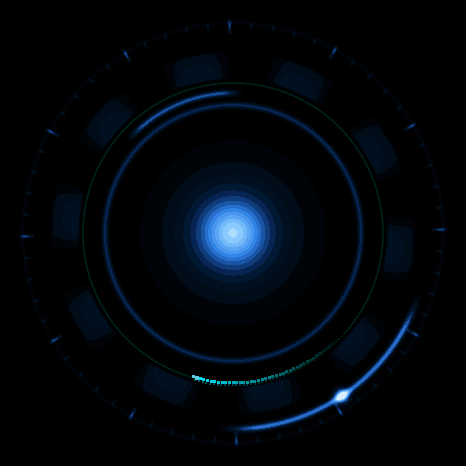
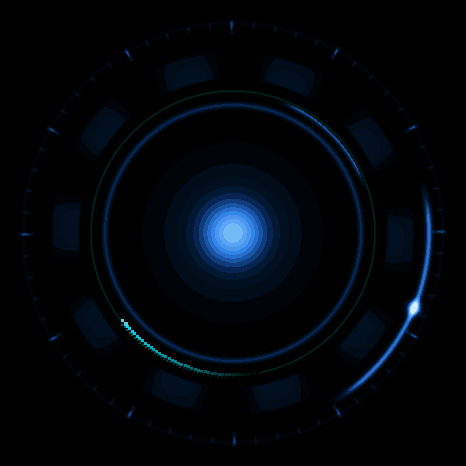
fix: stop drawing a second HUD on top of the baked art
User spotted it: "2 layers of design playing at same time... overlapping?" —
correct, and a real design error.

The baked rwave_*.eaf faces are not blank backdrops. Each is already a complete
arc-reactor HUD: core, radial spokes, inner ring, outer ring, segment blocks,
bezel ticks. The overlay was drawing its own ring at r=150 and its own 48 radial
spokes at r=70-128 directly on top of the art's ring and spokes — two HUDs in
the same visual language, slightly different geometry, beating against each
other.

It was also duplicating solved work. The clips are named rwave_* for REACTIVE
WAVE, and the display diag exposes applied_bucket tracking audio level: the
baked faces ARE the amplitude-reactive waveform. FACE-01 was already satisfied.
ov_waveform added nothing but noise, and is deleted (with ov_spoke, its only
caller — recoverable from history).

Measured the art's negative space instead, 6 frames averaged across animation
phases with the HUD toggled off, luminance profiled by radius. Three bands are
genuinely free (mean AND peak zero):

  r135-149  -> thinking comet   (was 150, against the baked ring)
  r185-194  -> breathing ring, and the listen countdown later
  r215-239  -> battery rim      (was 212, sitting on the bezel ticks)

Occupied and now avoided: core r0-94, inner ring r125-134, outer ring and
segments r155-179, bezel ticks r200-214.

Verified on hardware: thinking comet now puts 90 px in the free band and ZERO
[…]

diff --git a/components/jr_display/src/hud_render.c b/components/jr_display/src/hud_render.c
@@ -538,6 +538,29 @@ static void overlay_palette(bool swap)
     s_ov_ready = true;
 }
 
+/* ---- RADII: the overlay lives in the baked art's NEGATIVE SPACE ----------
+ *
+ * The baked rwave_*.eaf faces are not blank backdrops — each is already a
+ * complete arc-reactor HUD with its own core, spokes, rings and bezel ticks.
+ * Drawing a second ring or a second set of spokes on top produces two HUDs
+ * beating against each other, which is exactly what the first version did.
+ *
+ * Measured on hardware (6 frames averaged across animation phases, baked art
+ * only, via the /api/display/hud toggle) the art leaves precisely three bands
+ * free — mean AND peak luminance both zero:
+ *
+ *     r135-149   (15 px)   -> the thinking comet
+ *     r185-194   (10 px)   -> breathing ring / listen countdown
+ *     r215-239   (25 px)   -> battery rim, and the choice arcs later
+ *                             (which the prototype wanted hugging the bezel)
+ *
+ * Everything else is occupied: core r0-94, inner ring r125-134, outer ring and
+ * segments r155-179, bezel ticks r200-214. Put nothing there.
+ * Re-measure if the baked art is ever changed. */
+#define OV_R_COMET   142   /* centre of the free r135-149 band */
+#define OV_R_BREATH  190   /* centre of the free r185-194 band */
+#define OV_R_BATT    227   /* centre of the free r215-239 band */
+
 /* One revolution every ~2639 ms == the prototype's `angle = now/420` rad
  * (2*pi*420 ms per turn), expressed in the Q8 turn units the LUT uses. */
 #define OV_SPIN_PERIOD_MS  2639
@@ -561,7 +584,7 @@ void hud_overlay_thinking(uint16_t *dst, int y0, int nrows, uint32_t now_ms,
             continue;
         }
         band_row(dst + (size_t)(y - s.y0) * HUD_W, y,
-                 R_RING - 1, R_RING + 1, s_ov_cyan, 40);
+                 OV_R_COMET - 1, OV_R_COMET + 1, s_ov_cyan, 40);
     }
 
     const int head = (int)(((uint64_t)now_ms * 256u) / OV_SPIN_PERIOD_MS) & 255;
@@ -574,14 +597,14 @@ void hud_overlay_thinking(uint16_t *dst, int y0, int nrows, uint32_t now_ms,
         const uint16_t cool = shade(s_ov_cyan, (lv * 2) / 5);
         const int a = (head - d) & 255;
         /* 3-wide closes the ~3.7 px angular gap between adjacent Q8 steps. */
-        polar_dot(&s, a, R_RING, hot, 3);
-        polar_dot(&s, a, R_RING + 3, cool, 2);
+        polar_dot(&s, a, OV_R_COMET, hot, 3);
+        polar_dot(&s, a, OV_R_COMET + 3, cool, 2);
     }
 
     /* White-hot head. */
     const uint16_t blaze = shade(s_ov_tick, 255);
-    polar_dot(&s, head, R_RING, blaze, 4);
-    polar_dot(&s, (head + 1) & 255, R_RING, blaze, 3);
+    polar_dot(&s, head, OV_R_COMET, blaze, 4);
+    polar_dot(&s, (head + 1) & 255, OV_R_COMET, blaze, 3);
 }
 
 /* ---- offset-aware primitives -------------------------------------------
@@ -615,30 +638,9 @@ static inline void ov_polar(const strip_t *s, int cx, int cy, int a, int r,
     ov_dot(s, cx + ((lcos(a) * r) >> 15), y, px, n);
 }
 
-/* Radial spoke from r0 to r1 at angle a — the waveform bar primitive.
- *
- * CRITICAL: this is called once per DMA strip, 39 times per frame. Drawing the
- * whole spoke every time and letting ov_dot clip discards ~97% of the work and
- * measurably costs frame rate (24 -> 14 fps when this culling was absent).
- * y(r) is monotonic in r for a fixed angle, so the endpoints bound the span:
- * reject the spoke outright unless that span meets the strip. */
-static void ov_spoke(const strip_t *s, int cx, int cy, int a, int r0, int r1,
-                     uint16_t px, bool wide)
-{
-    if (r1 < r0) {
-        return;
-    }
-    const int sa = lsin(a);
-    int ya = cy + ((sa * r0) >> 15);
-    int yb = cy + ((sa * r1) >> 15);
-    if (ya > yb) { const int tmp = ya; ya = yb; yb = tmp; }
-    if (yb + 2 < s->y0 || ya >= s->y1) {
-        return;                                  /* cannot touch this strip */
-    }
-    for (int r = r0; r <= r1; ++r) {
-        ov_polar(s, cx, cy, a, r, px, wide ? 2 : 1);
-    }
-}
+/* NOTE: ov_spoke (radial bar primitive) lived here and was removed with the
+ * waveform — the baked art already draws spokes, so nothing needed it. Recover
+ * it from git history if a radial element is ever wanted in free space. */
 
 /* One row of an annulus about (cx,cy), filled analytically: solve the two x
  * spans rather than testing every pixel, so cost is the band width and not the
@@ -689,8 +691,6 @@ void hud_tilt_offset(float roll_deg, float pitch_deg, int8_t *ox, int8_t *oy)
  * o'clock, proportional to charge. Red under 20%, gold while charging, cyan
  * otherwise. Skipped entirely when no cell is present (batt_pct == 0xFF), so a
  * USB-powered puck shows no misleading gauge. */
-#define OV_R_BATT 212
-
 static void ov_battery(const strip_t *s, int cx, int cy, const hud_env_t *env)
 {
     if (env->batt_pct > 100) {
@@ -705,28 +705,18 @@ static void ov_battery(const strip_t *s, int cx, int cy, const hud_env_t *env)
     }
 }
 
-/* Reactive waveform: HUD_BARS spokes around the ring, length driven by
- * amplitude, shaped so the crown is tallest and the skirt shortest, with a
- * slow travelling ripple so it never looks like a static equaliser. */
-static void ov_waveform(const strip_t *s, int cx, int cy, uint32_t now_ms,
-                        const hud_env_t *env, const uint16_t *ramp, int base_lv)
-{
-    const int amp = env->amp;
-    for (int i = 0; i < HUD_BARS; ++i) {
-        const int a = (i * 256) / HUD_BARS;
-        /* envelope: full at the crown, tapering to the skirt */
-        const int env_q8 = 128 + ((lsin((i * 128) / HUD_BARS) * 127) >> 15);
-        /* travelling ripple keeps it alive even at constant amplitude */
-        const int rip = 180 + ((lsin((int)((now_ms >> 4) + i * 5) & 255) * 75) >> 15);
-        int len = 4 + (((amp * env_q8) >> 8) * rip) / 255 * 56 / 255;
-        if (len > 58) {
-            len = 58;
-        }
-        const int lv = base_lv + ((amp * (255 - base_lv)) >> 8);
-        ov_spoke(s, cx, cy, a, R_BAR_BASE, R_BAR_BASE + len,
-                 shade(ramp, lv), len > 24);
-    }
-}
+/* NOTE: there is deliberately NO waveform here.
+ *
+ * The first version drew 48 amplitude-driven spokes at r=70-128 — directly on
+ * top of the baked face's own radial spokes. The baked clips are named
+ * rwave_* for "reactive wave": they ALREADY are the amplitude-reactive
+ * waveform (the display diag exposes applied_bucket tracking audio level).
+ * Adding a second set was pure duplication and read as two competing HUDs.
+ *
+ * FACE-01 is therefore satisfied by the baked art, not by this layer. If the
+ * baked clips are ever retired (decision D4), hud_render_rows() already
+ * contains a full procedural face — use that, rather than reinstating an
+ * overlay waveform on top of a face that has one. */
 
 void hud_overlay_frame(uint16_t *dst, int y0, int nrows, uint32_t now_ms,
                        bool swap_bytes, const hud_env_t *env)
@@ -744,21 +734,21 @@ void hud_overlay_frame(uint16_t *dst, int y0, int nrows, uint32_t now_ms,
 
     switch ((hud_face_t)env->face) {
     case HUD_FACE_IDLE: {
-        /* Breathing ring — a slow sine on brightness. Present, not busy. */
+        /* Breathing ring in the free r185-194 band — a slow sine on
+         * brightness. Present, not busy, and clear of the baked rings. */
         const int lv = 26 + ((lsin((int)(now_ms / 24) & 255) * 22) >> 15) + 22;
         for (int y = s.y0; y < s.y1; ++y) {
             if (y >= 0 && y < HUD_H) {
                 ov_ring_row(dst + (size_t)(y - s.y0) * HUD_W, y, cx, cy,
-                            R_RING - 1, R_RING + 1, s_ov_cyan, lv);
+                            OV_R_BREATH - 1, OV_R_BREATH + 1, s_ov_cyan, lv);
             }
         }
         break;
     }
     case HUD_FACE_LISTEN:
-        ov_waveform(&s, cx, cy, now_ms, env, s_ov_cyan, 60);
-        break;
     case HUD_FACE_SPEAK:
-        ov_waveform(&s, cx, cy, now_ms, env, s_ov_tick, 90);
+        /* Nothing: the baked reactive-wave face already carries these states.
+         * The listen-window countdown rim (STATE-02) belongs at OV_R_BREATH. */
         break;
     case HUD_FACE_THINK:
         hud_overlay_thinking(dst, y0, nrows, now_ms, swap_bytes);
@@ -767,7 +757,7 @@ void hud_overlay_frame(uint16_t *dst, int y0, int nrows, uint32_t now_ms,
         for (int y = s.y0; y < s.y1; ++y) {
             if (y >= 0 && y < HUD_H) {
                 ov_ring_row(dst + (size_t)(y - s.y0) * HUD_W, y, cx, cy,
-                            R_TICK_IN, R_TICK_IN + 3, s_ov_red, 150);
+                            OV_R_BATT - 2, OV_R_BATT + 2, s_ov_red, 150);
             }
         }
         break;

diff --git a/docs/JARVISNANO_OS_PLAN.md b/docs/JARVISNANO_OS_PLAN.md
@@ -22,6 +22,49 @@
   app in the choice loop?), **D6** (dual-OTA before the partition table
   calcifies). **D2** is answered by the Phase 0 commit above: land v5.
 
+## DESIGN RULE: the overlay lives in the baked art's negative space
+
+Found 2026-07-19 by user observation ("2 layers of design playing at the same
+time... overlapping?") — and they were right.
+
+The baked `rwave_*.eaf` faces are **not blank backdrops**. Each is already a
+complete arc-reactor HUD: core, radial spokes, inner ring, outer ring, segment
+blocks, bezel ticks. The first overlay drew its own ring at r=150 and its own 48
+radial spokes at r=70-128, directly on top of the art's ring and spokes. Two
+HUDs in the same visual language, slightly different geometry, beating against
+each other.
+
+Worse, it was **duplicating work already done**: the clips are named `rwave_*`
+for *reactive wave* and the display diag exposes `applied_bucket` tracking audio
+level. The baked faces ARE the amplitude-reactive waveform. FACE-01 was already
+satisfied; the overlay added nothing but visual noise.
+
+**The measured negative space** (6 frames averaged across animation phases,
+baked art only, via the `/api/display/hud?on=0` toggle — mean AND peak
+luminance both zero):
+
+| Band | Width | Reserved for |
+|---|---|---|
+| **r135-149** | 15 px | thinking comet |
+| **r185-194** | 10 px | breathing ring, listen countdown (STATE-02) |
+| **r215-239** | 25 px | battery rim, and the choice arcs — which the prototype wanted "hugging the bezel" anyway |
+
+Occupied, do not draw here: core r0-94, inner ring r125-134, outer ring and
+segments r155-179, bezel ticks r200-214. The old battery radius (212) sat right
+on the bezel ticks.
+
+**The rule: before adding any visual element, measure where the art already
+draws and put the new thing in a free band.** Toggle the HUD off, capture
+several frames, profile luminance by radius. If no free band fits the element,
+that is a signal the element duplicates something the art already provides —
+as the waveform did. Re-measure if the baked art is ever changed.
+
+Corollary for decision D4: going fully procedural remains viable —
+`hud_render_rows()` renders all five faces and was previewed on the host — but
+it is a **downgrade in richness** today. The procedural idle is a thin ring and
+a faint core; the baked idle has depth, glow and segments. Retire the clips only
+if the flash/PSRAM is needed, not for looks.
+
 ## Internal RAM budget — the real constraint on Phases 2–5 (measured 2026-07-18)
 
 The audit named PSRAM and flash as the hard ceilings. They are real, but the
